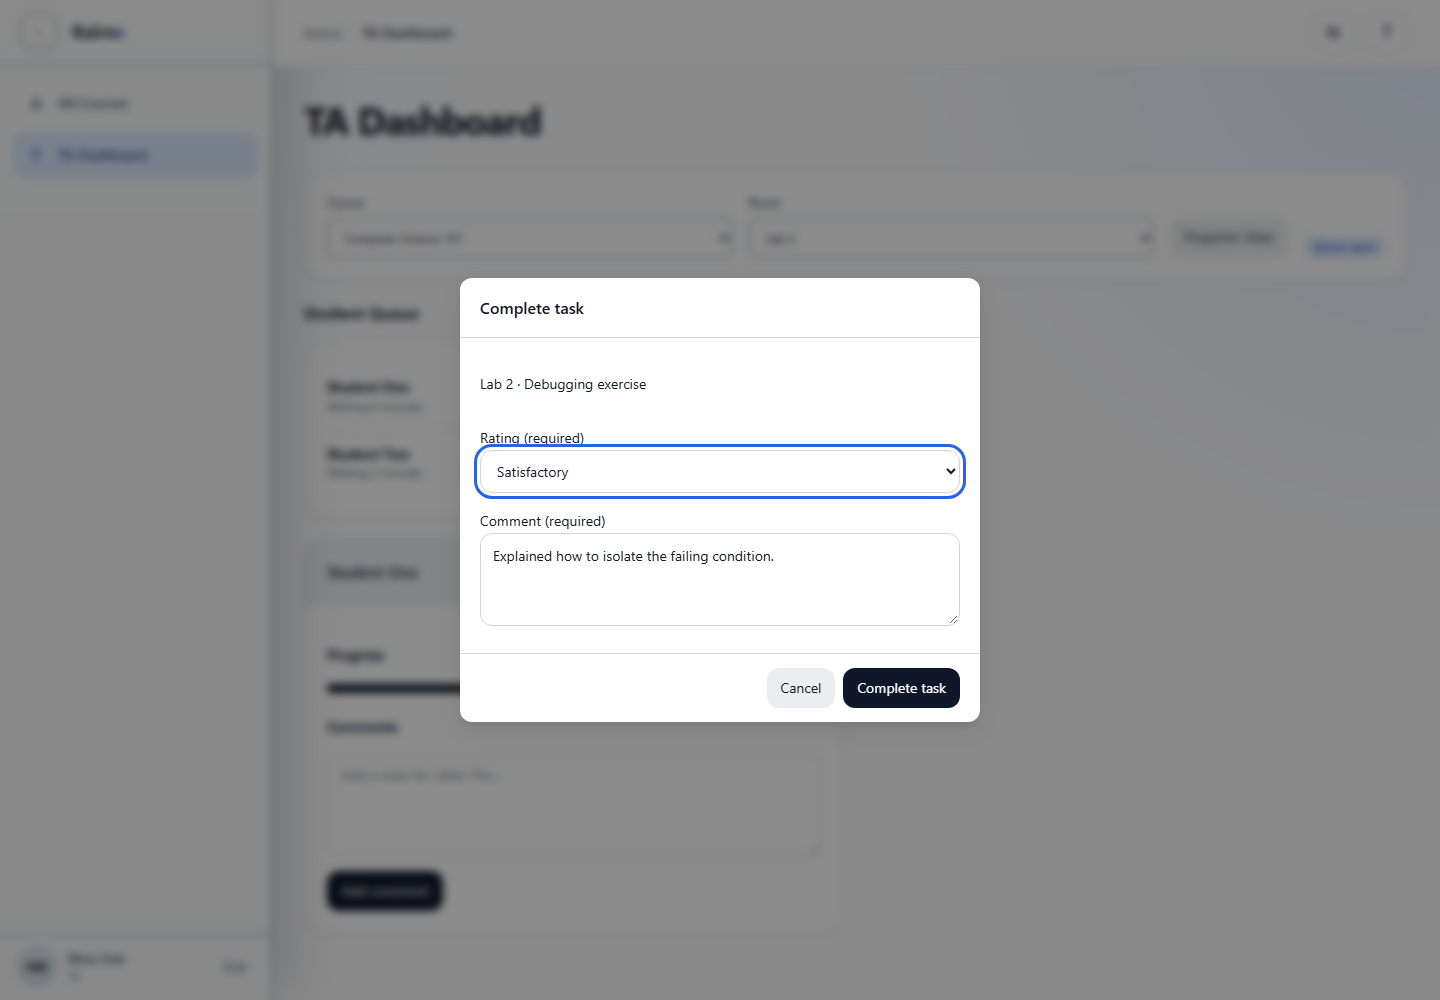
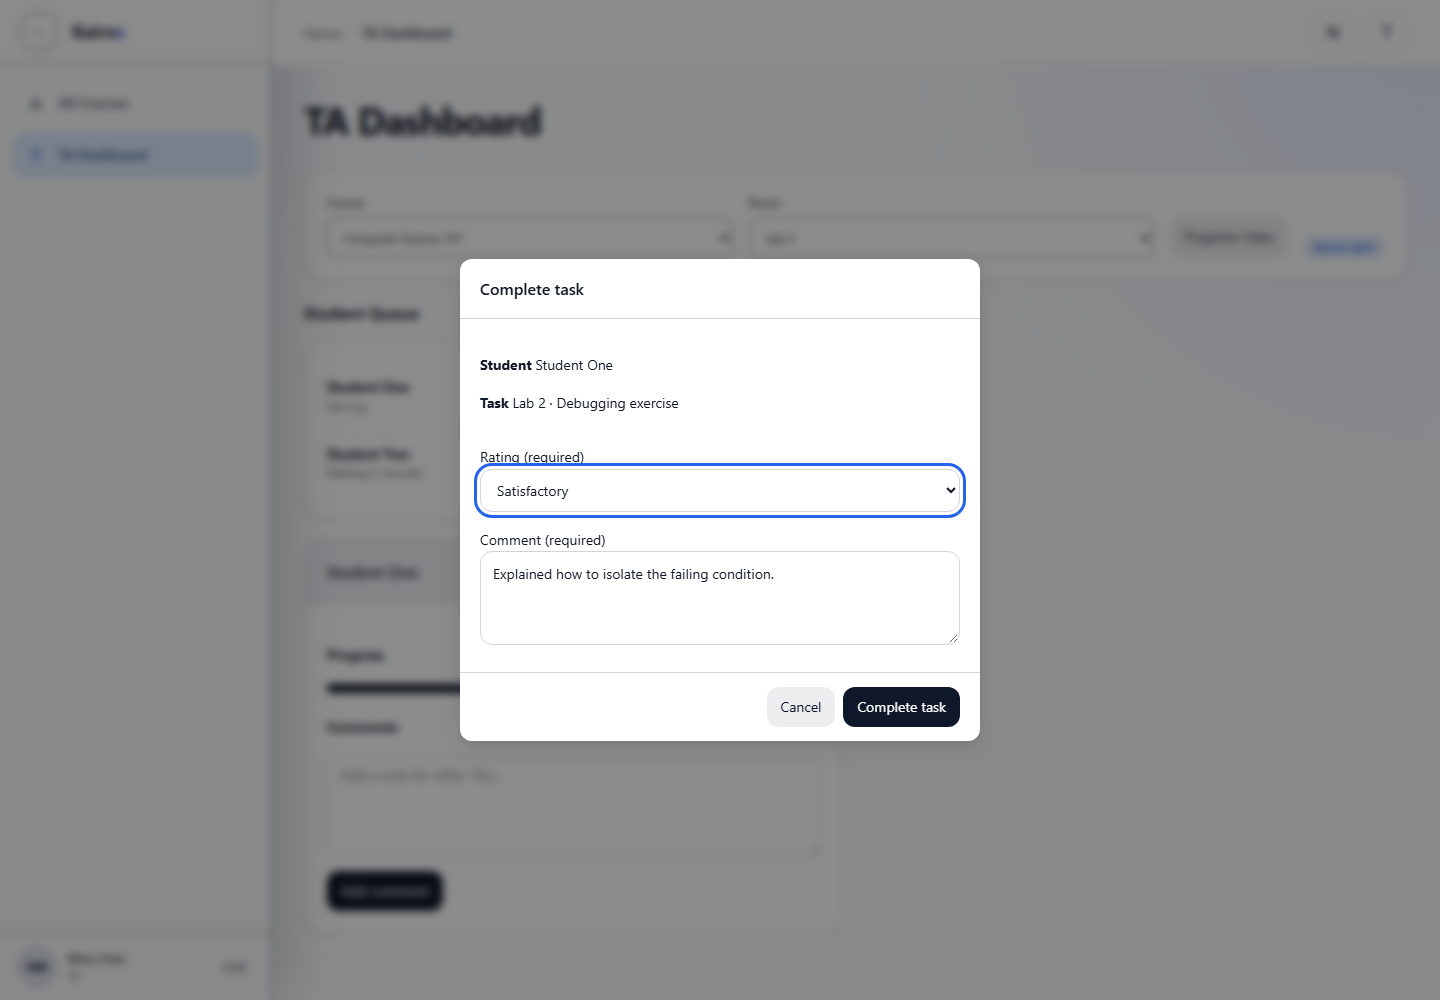
Show sign-off context and require a fresh rating choice

Changed region(s): [[0.3125, 0.248, 0.6875, 0.589], [0.3125, 0.651, 0.6875, 0.744]]

diff --git a/public/js/ta.js b/public/js/ta.js
@@ -908,7 +908,7 @@ function renderStudentPanel(data, userId) {
   const student = findStudentInQueues(userId);
   const nameEl = document.getElementById('taStudentName');
   const fallbackName = taState.studentDirectory?.[userId] || `Student #${userId}`;
-  if (nameEl) nameEl.textContent = student?.name || fallbackName;
+  if (nameEl) nameEl.textContent = data?.studentName || student?.name || fallbackName;
   const courseLabel = document.getElementById('taStudentCourse');
   if (courseLabel) courseLabel.textContent = taState.selectedCourse ? `Course #${taState.selectedCourse}` : '';
 
@@ -954,6 +954,7 @@ function renderProgressList(data) {
       name.textContent = detail.name;
       const select = document.createElement('select');
       select.dataset.detail = detail.detail_id;
+      select.dataset.categoryName = cat.name;
       select.setAttribute('aria-label', `Progress for ${detail.name}`);
       options.forEach((optName) => {
         const opt = document.createElement('option');
@@ -1053,11 +1054,16 @@ function confirmSignoff(select, detailId, studentId, status, previous, policy) {
   const courseId = taState.selectedCourse;
   form.reset();
   error.textContent = '';
-  document.getElementById('taSignoffTask').textContent = select.closest('.ta-progress-item').querySelector('.detail-name').textContent;
+  document.getElementById('taSignoffStudent').textContent =
+    document.getElementById('taStudentName')?.textContent || `Student #${studentId}`;
+  const taskName = select.closest('.ta-progress-item').querySelector('.detail-name').textContent;
+  document.getElementById('taSignoffTask').textContent =
+    [select.dataset.categoryName, taskName].filter(Boolean).join(' · ');
   document.getElementById('taSignoffRatingField').hidden = !policy.options.length;
   document.getElementById('taSignoffRatingLabel').textContent = policy.rating_required ? 'Rating (required)' : 'Rating (optional)';
   document.getElementById('taSignoffCommentLabel').textContent = policy.comment_required ? 'Comment (required)' : 'Comment (optional)';
   rating.replaceChildren(new Option('Select a rating', ''), ...policy.options.map(option => new Option(option.label, option.id)));
+  rating.selectedIndex = 0;
   rating.required = policy.rating_required;
   comment.required = policy.comment_required;
   cancel.onclick = () => dialog.close();
@@ -1076,6 +1082,11 @@ function confirmSignoff(select, detailId, studentId, status, previous, policy) {
       if (save.disabled) return;
       if (taState.selectedStudent !== studentId || taState.selectedCourse !== courseId) {
         dialog.close();
+        return;
+      }
+      if (policy.rating_required && !rating.value) {
+        error.textContent = 'Select a rating to complete this task.';
+        rating.focus();
         return;
       }
       if (policy.comment_required && !comment.value.trim()) {

diff --git a/templates/pages/ta.html b/templates/pages/ta.html
@@ -201,13 +201,16 @@
 
   <div id="taToastStack" class="toast-stack" aria-live="polite" aria-atomic="true"></div>
 
-  <dialog class="k-modal" id="taSignoffDialog" aria-labelledby="taSignoffTitle">
+  <dialog class="k-modal" id="taSignoffDialog" aria-labelledby="taSignoffTitle" aria-describedby="taSignoffContext">
     <form class="k-modal__panel k-modal__content--sm" id="taSignoffForm">
       <div class="k-modal__header">
         <h2 class="k-modal__title" id="taSignoffTitle">Complete task</h2>
       </div>
       <div class="k-modal__body">
-        <p id="taSignoffTask"></p>
+        <div id="taSignoffContext">
+          <p><strong>Student</strong> <span id="taSignoffStudent"></span></p>
+          <p><strong>Task</strong> <span id="taSignoffTask"></span></p>
+        </div>
         <div class="field" id="taSignoffRatingField">
           <label for="taSignoffRating" id="taSignoffRatingLabel">Rating</label>
           <select id="taSignoffRating" class="input"></select>

diff --git a/tools/bookstack-screenshots/fixture.html b/tools/bookstack-screenshots/fixture.html
@@ -383,7 +383,10 @@
             <form class="k-modal__panel k-modal__content--sm">
               <div class="k-modal__header"><h2 class="k-modal__title" id="fixtureSignoffTitle">Complete task</h2></div>
               <div class="k-modal__body">
-                <p>Lab 2 · Debugging exercise</p>
+                <div id="fixtureSignoffContext">
+                  <p><strong>Student</strong> Student One</p>
+                  <p><strong>Task</strong> Lab 2 · Debugging exercise</p>
+                </div>
                 <div class="field"><label for="fixtureRating">Rating (required)</label><select id="fixtureRating" class="input"><option>Developing</option><option selected>Satisfactory</option><option>Excellent</option></select></div>
                 <div class="field"><label for="fixtureSignoffComment">Comment (required)</label><textarea class="input" id="fixtureSignoffComment" rows="3">Explained how to isolate the failing condition.</textarea></div>
               </div>

diff --git a/public/api/ta/student_progress.php b/public/api/ta/student_progress.php
@@ -23,6 +23,10 @@ if (!in_array($courseId, rbac_student_course_ids($pdo, $studentId), true)) {
     json_out(['error' => 'student_not_found'], 404);
 }
 
+$studentStmt = $pdo->prepare('SELECT name FROM users WHERE user_id = :uid');
+$studentStmt->execute([':uid' => $studentId]);
+$studentName = $studentStmt->fetchColumn();
+
 // Fetch categories for the course
 $catStmt = $pdo->prepare('SELECT CAST(category_id AS UNSIGNED) AS category_id, name
                            FROM progress_category
@@ -93,6 +97,7 @@ if (table_exists($pdo, 'ta_comments')) {
 $policy = signoff_policy($pdo, $courseId);
 $policy['options'] = array_values(array_filter($policy['options'], static fn(array $option): bool => $option['active']));
 json_out([
+    'studentName'       => $studentName === false ? null : $studentName,
     'signoffPolicy'     => $policy,
     'categories'        => $categories,
     'detailsByCategory' => $detailsByCat,

diff --git a/docs/bookstack/kairos/ta-guide/01-ta-dashboard-overview.md b/docs/bookstack/kairos/ta-guide/01-ta-dashboard-overview.md
@@ -12,7 +12,7 @@ Use the TA Dashboard to select an assigned course and room, view the student que
 4. Review the **Student Queue**.
 5. Select a Student to view progress.
 6. To sign off a task, choose **Completed** next to it.
-7. If the course requires a rating or comment, complete the fields marked **required** and select **Complete task**.
+7. If a sign-off dialog opens, check the student and task. Choose a rating if required, add the required comment, and select **Complete task**.
 8. Use the separate **Comments** area when you want to leave a general note for other TAs.
 
 ## Screenshot
